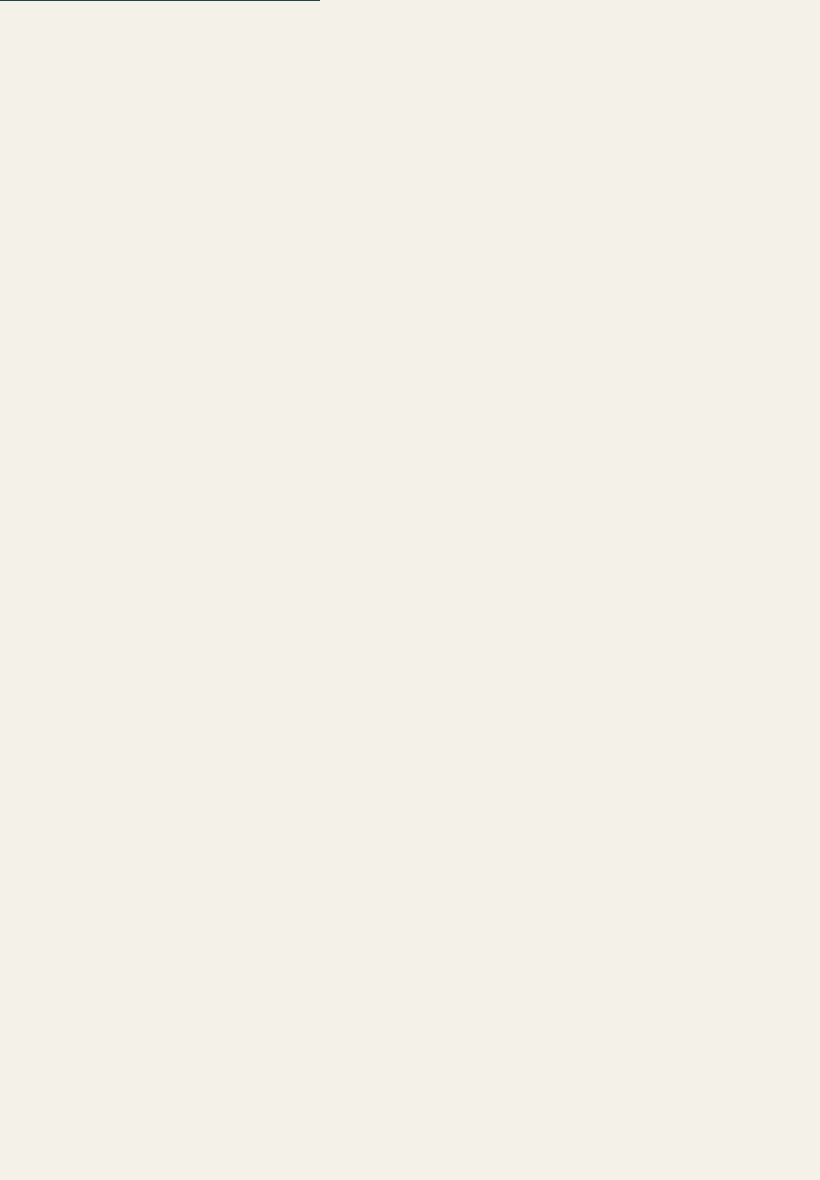
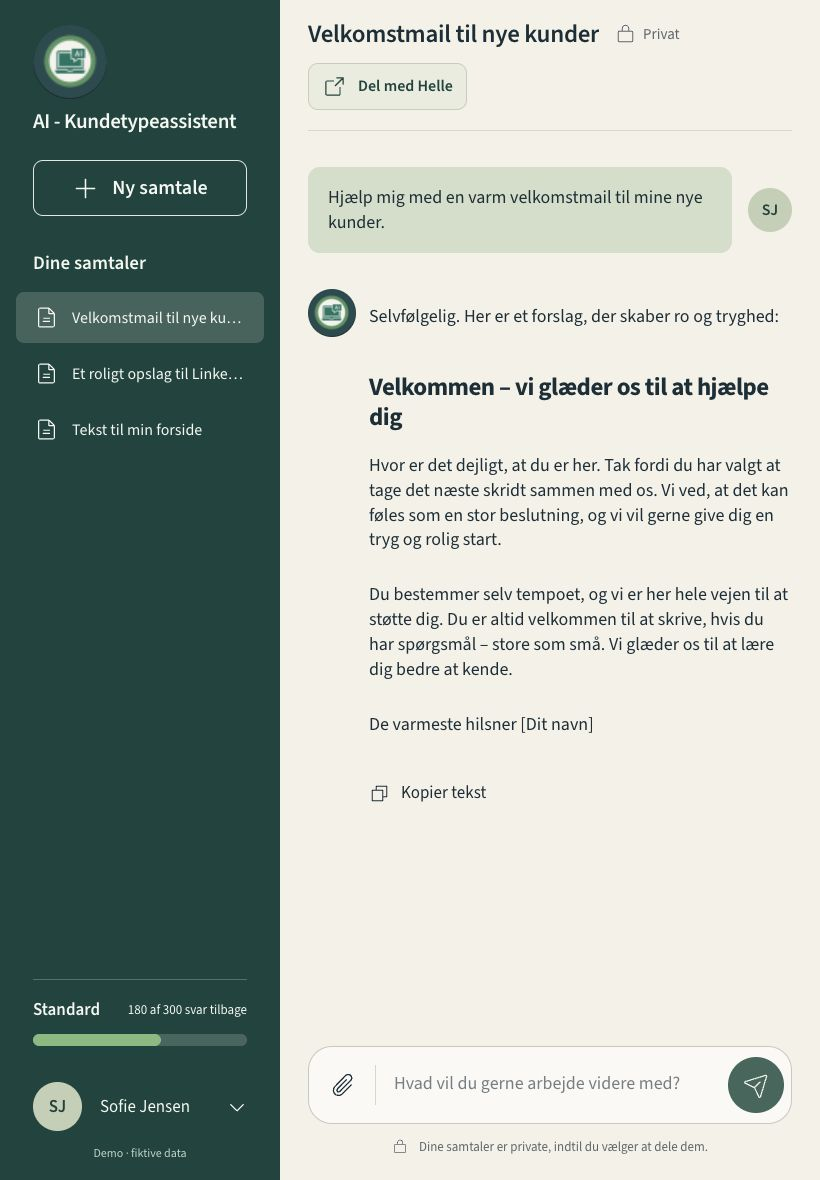
Record first-batch review status and final tablet evidence

diff --git a/app/design-qa.md b/app/design-qa.md
@@ -12,7 +12,7 @@ Date: 16 October 2026. final result: passed
 - [Focused conversation comparison](../docs/screenshots/comparison-detail.png): identical x=330, y=100, width=1157, height=690 regions, side by side at original density. This makes typography, bubbles, logo and copy controls readable.
 - [First comparison](../docs/screenshots/comparison-first.png), [tablet](../docs/screenshots/tablet.png), [mobile](../docs/screenshots/mobile.png), [mobile sharing](../docs/screenshots/mobile-share.png), [admin](../docs/screenshots/admin.png).
 
-The browser panel clipped a larger viewport in viewport-only captures. Full-page captures were used to obtain the complete 1487px layout; DOM width and image dimensions were checked. An initial mobile capture occurred before paint and was discarded; the saved final evidence contains the rendered app.
+The browser panel clipped a larger viewport in viewport-only captures. Full-page captures were used to obtain the complete 1487px layout; DOM width and image dimensions were checked. Initial mobile/tablet captures occurred before paint and were replaced; the saved final evidence contains the rendered app.
 
 ## Findings and comparison history
 

diff --git a/planning/TASKS.md b/planning/TASKS.md
@@ -2,7 +2,7 @@
 
 [Live GitHub roadmap](https://github.com/gunnero/AIchat/issues/1) · [Milestones](https://github.com/gunnero/AIchat/milestones)
 
-This file is a link index. GitHub Issues is the source of truth for current status. All issues were created open; no implementation is represented as complete.
+This file is a link index. GitHub Issues is the source of truth for current status. The first batch (AK-001–AK-009) is implemented and ready for review in [PR #60](https://github.com/gunnero/AIchat/pull/60). GitHub issues remain open until the implementation is merged. Later milestones are still planned.
 
 First build batch: AK-001–AK-009. Prepare AK-010–AK-011 alongside it, then measure the synthetic-data AI pilot in AK-012–AK-014. Privacy and supplier decisions begin as soon as their inputs are available.
 
